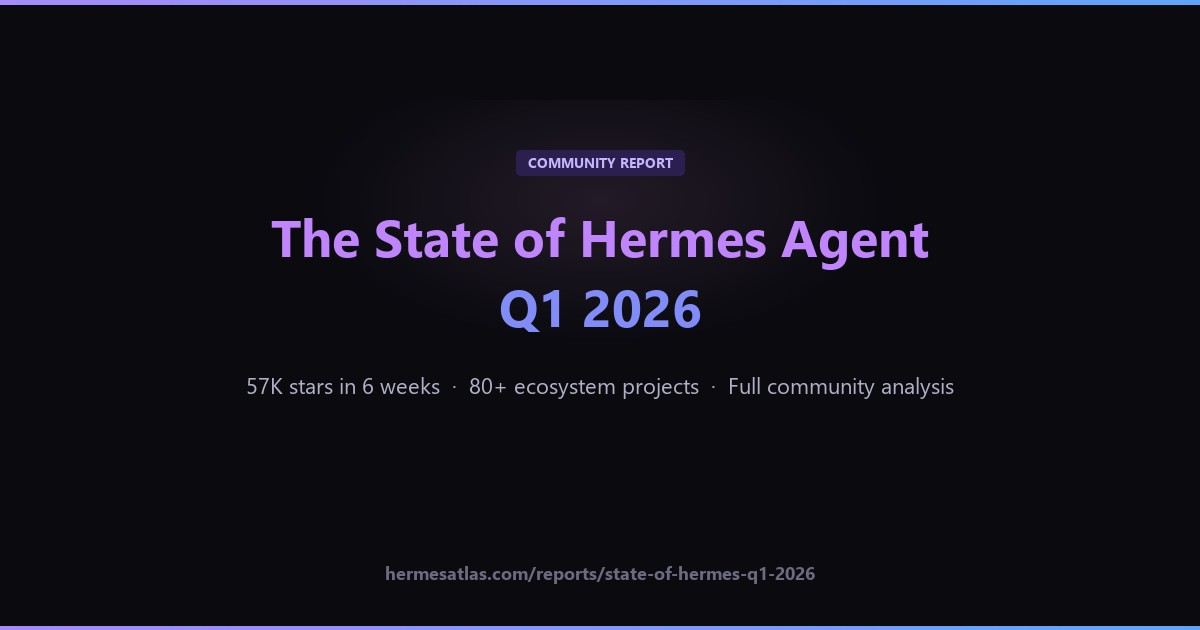
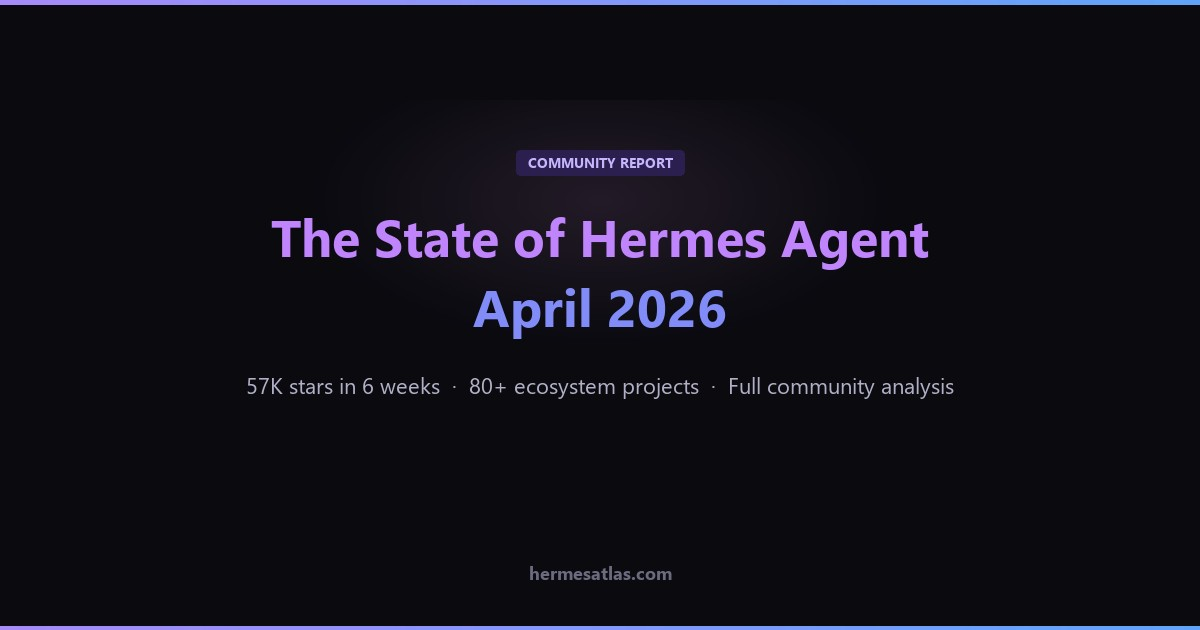
Rename report from Q1 2026 to April 2026
Most of the action covered in the report happened in April, not Q1.
Renamed throughout:
- Report HTML title, OG tags, h1, article badge
- New URL: /reports/state-of-hermes-april-2026
- 301 redirect from old /reports/state-of-hermes-q1-2026 URL
- Banner on main page updated with new title and link
- OG image regenerated with "April 2026" text
- X thread draft and markdown draft updated

Old URL still works via permanent redirect in vercel.json.

Changed region(s): [[0.4008, 0.4524, 0.6167, 0.5429], [0.3083, 0.8746, 0.6783, 0.9349]]

diff --git a/reports/state-of-hermes-april-2026.html b/reports/state-of-hermes-april-2026.html
@@ -5,11 +5,11 @@
 <meta name="viewport" content="width=device-width, initial-scale=1.0">
 <title>The State of Hermes Agent — April 2026 | Hermes Atlas</title>
 <meta name="description" content="A community report on the first six weeks of Nous Research's self-improving AI agent. 57,200 stars, 80+ ecosystem projects, and what to watch for in Q2.">
-<link rel="canonical" href="https://hermesatlas.com/reports/state-of-hermes-q1-2026">
+<link rel="canonical" href="https://hermesatlas.com/reports/state-of-hermes-april-2026">
 <meta property="og:title" content="The State of Hermes Agent — April 2026">
 <meta property="og:description" content="A community report on the first six weeks of Nous Research's self-improving AI agent. 57,200 stars, 80+ ecosystem projects, and what to watch for in Q2.">
 <meta property="og:type" content="article">
-<meta property="og:url" content="https://hermesatlas.com/reports/state-of-hermes-q1-2026">
+<meta property="og:url" content="https://hermesatlas.com/reports/state-of-hermes-april-2026">
 <meta property="og:site_name" content="Hermes Atlas">
 <meta property="article:published_time" content="2026-04-11T00:00:00Z">
 <meta property="og:image" content="https://hermesatlas.com/reports/assets/og-report-q1.jpg">

diff --git a/ecosystem-map.html b/ecosystem-map.html
@@ -774,7 +774,7 @@
 <div class="report-banner" id="report-banner">
   <div class="report-banner-content">
     <span class="report-banner-badge">New Report</span>
-    <span class="report-banner-text"><a href="/reports/state-of-hermes-q1-2026">The State of Hermes Agent — Q1 2026</a> · 57K stars in 6 weeks, 80+ ecosystem projects, and what to watch next</span>
+    <span class="report-banner-text"><a href="/reports/state-of-hermes-april-2026">The State of Hermes Agent — April 2026</a> · 57K stars in 6 weeks, 80+ ecosystem projects, and what to watch next</span>
   </div>
   <button class="report-banner-close" id="report-banner-close" title="Dismiss" aria-label="Dismiss banner">✕</button>
 </div>

diff --git a/index.html b/index.html
@@ -774,7 +774,7 @@
 <div class="report-banner" id="report-banner">
   <div class="report-banner-content">
     <span class="report-banner-badge">New Report</span>
-    <span class="report-banner-text"><a href="/reports/state-of-hermes-q1-2026">The State of Hermes Agent — Q1 2026</a> · 57K stars in 6 weeks, 80+ ecosystem projects, and what to watch next</span>
+    <span class="report-banner-text"><a href="/reports/state-of-hermes-april-2026">The State of Hermes Agent — April 2026</a> · 57K stars in 6 weeks, 80+ ecosystem projects, and what to watch next</span>
   </div>
   <button class="report-banner-close" id="report-banner-close" title="Dismiss" aria-label="Dismiss banner">✕</button>
 </div>
